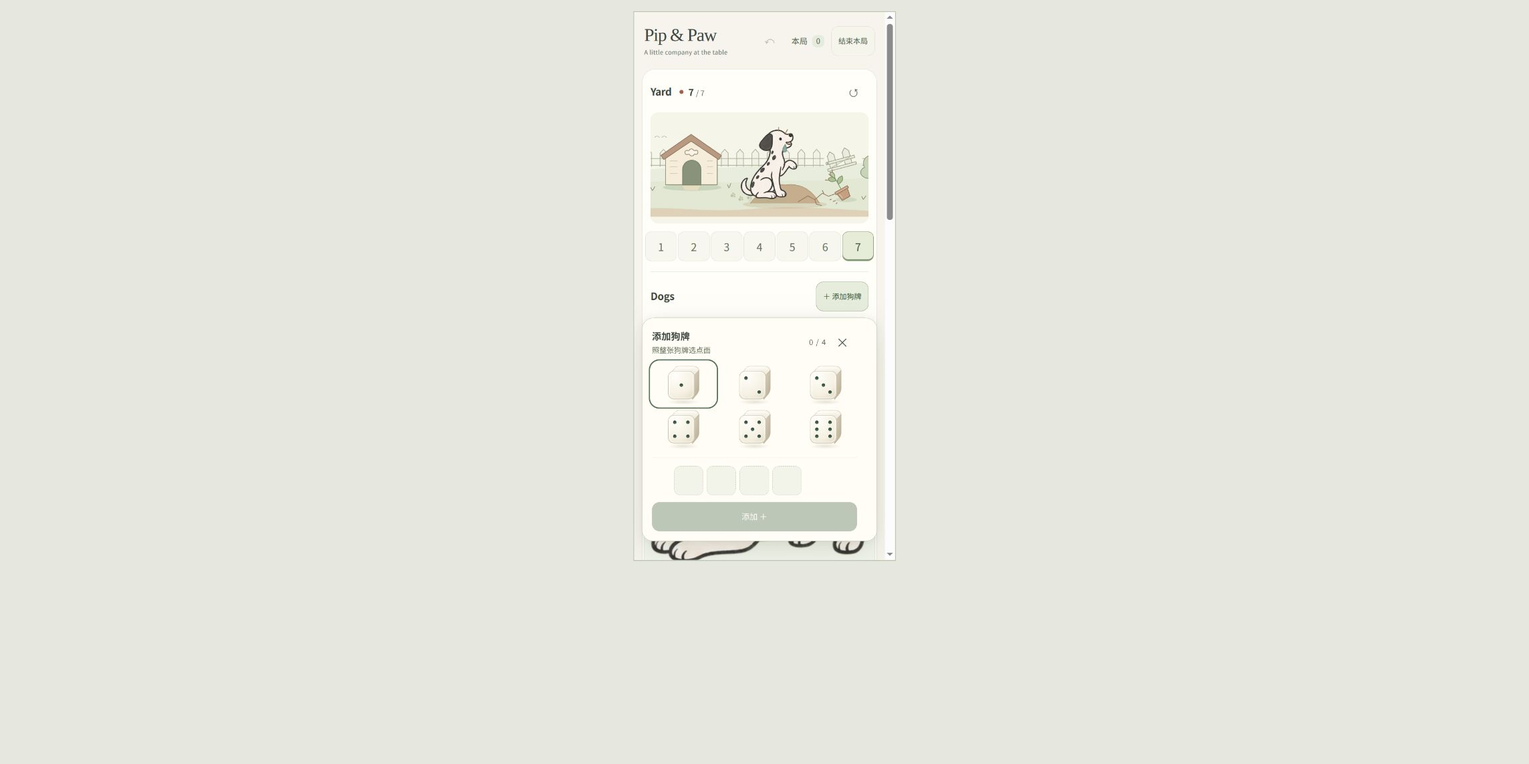
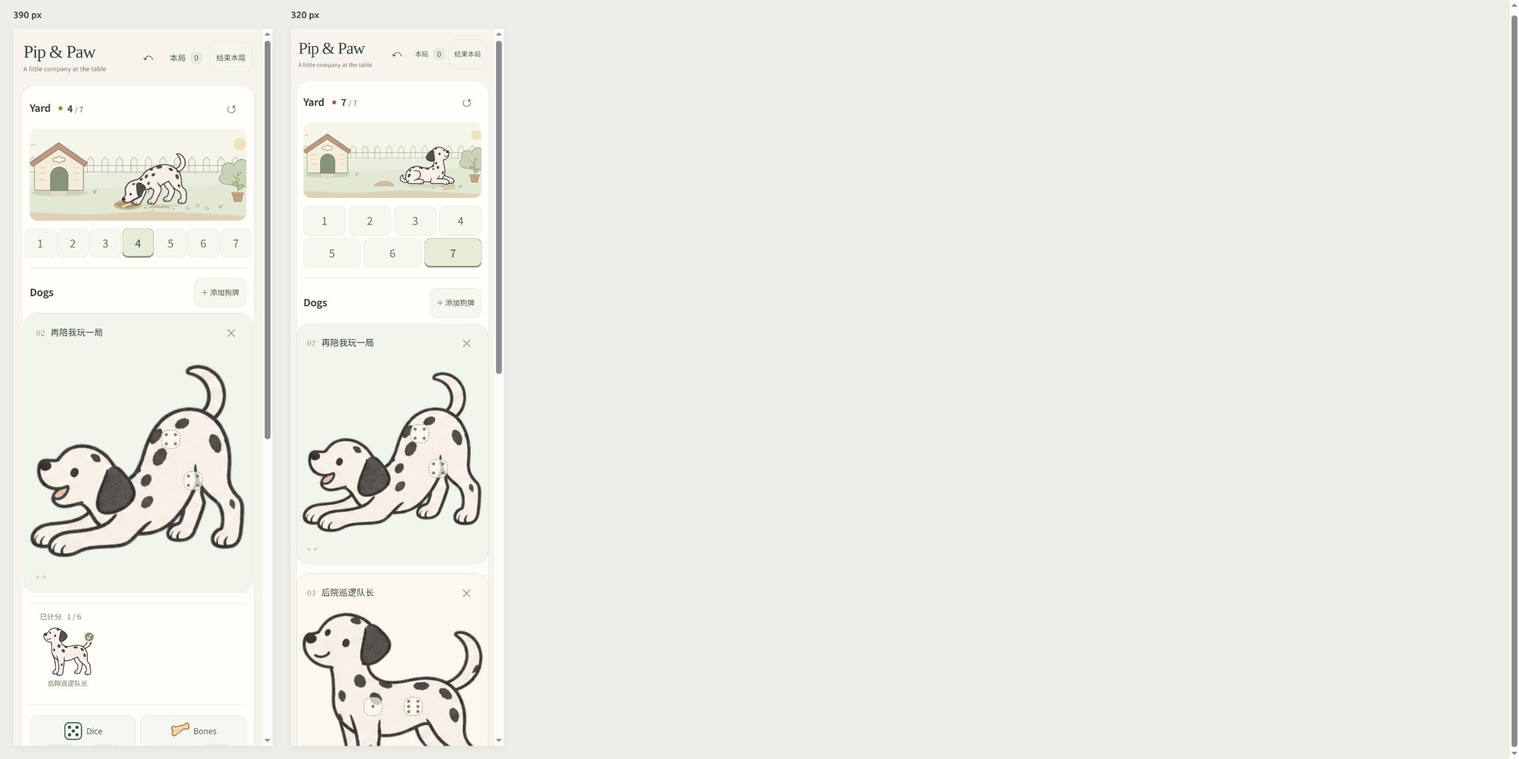
Fix dog creation and coordinate backyard scenes

diff --git a/index.html b/index.html
@@ -180,7 +180,7 @@ main{max-width:1040px;padding-top:30px}.brand strong{font-size:32px}.brand small
 .record-faces{display:flex;align-items:center;gap:2px;flex-wrap:wrap;margin-top:3px}.record-faces .die-art{width:29px;height:30px;flex:none}.record-faces small{padding-left:3px}
 
 /* A temporary tool beside the table: opening it never moves the cards. */
-.dog-builder{position:fixed;inset:auto;z-index:60;width:420px;max-width:calc(100vw - 24px);max-height:calc(100dvh - 24px);margin:0;padding:16px;border:1px solid #c9d3bd;border-radius:18px;background:#fffdf5;color:var(--ink);box-shadow:0 14px 45px #36492a24,0 3px 10px #36492a10;overflow:auto;overscroll-behavior:contain;scrollbar-gutter:stable;animation:builder-appear .16s ease-out}
+.dog-builder{position:fixed;inset:auto;z-index:60;width:420px;max-width:calc(100vw - 24px);max-height:calc(100dvh - 24px);margin:0;padding:16px;border:1px solid #c9d3bd;border-radius:18px;background:#fffdf5;color:var(--ink);box-shadow:0 14px 45px #36492a24,0 3px 10px #36492a10;overflow:auto;overscroll-behavior:contain;scrollbar-gutter:stable;transform-origin:top right;animation:builder-unfold .14s ease-out}
 .dog-builder::backdrop{background:transparent}
 .dog-builder .builder-heading h3{font-size:14px;letter-spacing:.02em}
 .dog-builder .builder-heading p{font-size:11px;color:#64705b;margin-top:3px}
@@ -206,7 +206,7 @@ main{max-width:1040px;padding-top:30px}.brand strong{font-size:32px}.brand small
 .scored-dog .new-puppy{width:78px;margin:auto}
 .scored-dog>span:last-of-type{max-width:84px;overflow-wrap:anywhere}
 .settle-dog-name>span:last-child{line-height:1.5;overflow-wrap:anywhere}
-@keyframes builder-appear{from{opacity:0;transform:translateY(4px)}to{opacity:1;transform:none}}
+@keyframes builder-unfold{from{opacity:0;clip-path:inset(0 0 0 18% round 18px)}to{opacity:1;clip-path:inset(0 0 0 0 round 18px)}}
 @media(max-width:650px){
  .dog-builder{padding:14px;border-radius:16px}
  .dog-builder .dice-palette{grid-template-columns:repeat(3,minmax(0,1fr));gap:2px 12px;margin:8px 0 12px}
@@ -225,19 +225,21 @@ main{max-width:1040px;padding-top:30px}.brand strong{font-size:32px}.brand small
 @media(prefers-reduced-motion:reduce){.dog-builder{animation:none}}
 
 
-/* The same Dalmatian belongs to the card and the backyard. */
-.yard-scene .yard-character{left:var(--yard-x);top:var(--yard-y);width:22.8%;max-width:none}
-.yard-scene .yard-dog{display:block;width:100%;height:100%}
-.yard-reaction{position:absolute;inset:0;width:100%;height:100%;overflow:visible;pointer-events:none}
-.yard-planter,.yard-gate{transform-box:fill-box;transform-origin:50% 100%}
-.yard-scene[data-level=caution] .yard-change .yard-planter,.yard-scene[data-level=full] .yard-change .yard-planter{animation:yard-pot-catch .46s ease-out both}
-.yard-scene[data-level=full] .yard-change .yard-gate{animation:yard-gate-catch .4s ease-out both}
-.yard-change .yard-tension{animation:yard-mark-arrive .25s ease-out both}
-@keyframes yard-pot-catch{0%,100%{transform:rotate(0)}35%{transform:rotate(-3deg)}70%{transform:rotate(1deg)}}
-@keyframes yard-gate-catch{0%,100%{transform:rotate(0)}40%{transform:rotate(-2deg)}}
-@keyframes yard-mark-arrive{from{opacity:0}to{opacity:1}}
-@media(max-width:650px){.yard-scene .yard-character{left:var(--yard-mobile-x);top:var(--yard-mobile-y);width:34%}}
-@media(prefers-reduced-motion:reduce){.yard-scene .yard-character,.yard-scene .yard-planter,.yard-scene .yard-gate,.yard-scene .yard-tension{animation:none}}
+/* One scene coordinate system keeps paws, soil and props together at every width. */
+.yard-scene .yard-story{position:absolute;inset:0;width:100%;height:100%;max-width:none;left:0;overflow:hidden}
+.yard-story .yard-dalmatian{overflow:hidden}
+.yard-working-paw{transform-box:fill-box;transform-origin:68.4211% 9.4118%;animation:yard-paw-scoop .72s ease-in-out 5}
+.yard-dirt-flight{opacity:0;animation:yard-soil-toss .72s ease-out 5;animation-delay:var(--crumb-delay,0s)}
+.yard-butterfly-wings{transform-box:fill-box;transform-origin:50% 50%;animation:yard-wings .65s ease-in-out 5}
+.yard-garden-sprig{transform-box:fill-box;transform-origin:50% 100%;animation:yard-sprig-breeze 1.5s ease-in-out 2}
+.yard-found-bone{animation:yard-bone-peek 2.15s ease-out both}
+@keyframes yard-paw-scoop{0%,100%{transform:rotate(0deg)}28%{transform:rotate(17deg)}66%{transform:rotate(-14deg)}85%{transform:rotate(-5deg)}}
+@keyframes yard-soil-toss{0%,24%{opacity:0;transform:translate(0,0)}35%{opacity:.95;transform:translate(7px,-5px)}65%{opacity:.85;transform:translate(33px,-19px)}95%,100%{opacity:0;transform:translate(54px,7px)}}
+@keyframes yard-wings{0%,100%{transform:scaleX(1)}50%{transform:scaleX(.55)}}
+@keyframes yard-sprig-breeze{0%,100%{transform:rotate(0)}40%{transform:rotate(3deg)}70%{transform:rotate(-1deg)}}
+@keyframes yard-bone-peek{0%,15%{opacity:0;transform:translateY(5px)}45%,100%{opacity:1;transform:translateY(0)}}
+@media(max-width:650px){.yard-scene{aspect-ratio:2.35}.yard-scene .yard-story{width:100%;height:100%;left:0}}
+@media(prefers-reduced-motion:reduce){.yard-story .yard-working-paw,.yard-story .yard-butterfly-wings,.yard-story .yard-garden-sprig,.yard-story .yard-found-bone{animation:none}.yard-story .yard-dirt-flight{animation:none;display:none}}
 
 </style></head><body><main><header><div class="brand"><strong>Pip &amp; Paw</strong><small>A little company at the table</small></div><nav class="session-tools" aria-label="本局操作"><button type="button" class="icon-button" id="undoButton" aria-label="撤销上一步" title="撤销上一步" disabled>↶</button><button type="button" class="quiet-button" id="openJournal">本局 <span id="journalCount">0</span></button><button type="button" class="secondary-button" id="endSession">结束本局</button></nav></header><div id="saveStatus" class="save-status" hidden>浏览器未允许保存；当前页面仍可继续使用。</div><div id="tableEnded" class="table-ended" hidden><span>这一局已收好。</span><button type="button" class="text-button" id="resumeTable">继续本局</button></div>
 <section class="general-module" id="generalModule" aria-label="Yard and Dogs">
@@ -430,8 +432,9 @@ function positionBuilder(){
  panel.style.width=Math.min(420,width-margin*2)+'px';
  panel.style.maxHeight=Math.max(44,height-margin*2)+'px';
  let box=panel.getBoundingClientRect(),left,top,side;
- if(width>=1100&&rightEdge-rect.right>=box.width+gap+margin){
-  side='right';left=rect.right+gap;top=rect.top;
+ // Keep the component attached to the entrance, opening toward the table.
+ if(rect.left-leftEdge>=box.width+gap+margin){
+  side='left';left=rect.left-gap-box.width;top=rect.top;
  }else{
   const below=bottomEdge-rect.bottom-gap-margin,above=rect.top-topEdge-gap-margin;
   side=below>=box.height||below>=above?'bottom':'top';
@@ -480,14 +483,15 @@ function setupBuilderPopover(){
  panel.addEventListener('toggle',event=>{
   if(event.newState==='closed'&&!panel.matches(':popover-open')){builderOpen=false;panel.hidden=true;updateBuilderExpanded(false);}
  });
- panel.addEventListener('keydown',event=>{if(event.key==='Escape'){event.preventDefault();event.stopPropagation();closeBuilder();}});
+ document.addEventListener('keydown',event=>{if(builderOpen&&event.key==='Escape'){event.preventDefault();event.stopPropagation();closeBuilder();}});
  document.addEventListener('pointerdown',event=>{
   if(!builderOpen||builderUsesNativePopover()||panel.contains(event.target)||builderInvokers().some(b=>b.contains(event.target)))return;
   closeBuilder(false);
  });
- panel.addEventListener('focusout',()=>queueMicrotask(()=>{
-  if(builderOpen&&!panel.contains(document.activeElement)&&!builderInvokers().includes(document.activeElement))closeBuilder(false);
- }));
+ // Focus changes are not dismissal: a pointer activation may briefly blur
+ // to body, and editing the draft replaces its focused chip before restoring it.
+ // Native auto popovers handle light dismissal; the fallback uses the explicit
+ // outside pointerdown handler above. Neither path interrupts an internal click.
  window.addEventListener('resize',requestBuilderPosition,{passive:true});
  window.addEventListener('scroll',event=>{if(!panel.contains(event.target))requestBuilderPosition();},{passive:true,capture:true});
  window.visualViewport?.addEventListener('resize',requestBuilderPosition,{passive:true});
@@ -1236,29 +1240,47 @@ function renderActionRule(){
  $('actionSettings').hidden=!$('specialExtra').querySelector('[data-p]');
 }
 let lastYard=null;
-// Scene details respond to the known Yard total, never to an invented dice roll.
+// Every object shares this scene's coordinates: the working paw meets the pit,
+// and the loose soil leaves that paw toward the dog's hind legs.
+function yardPoseSvg(state, points) {
+ const art=DOG_ART.poses[state.pose],crop=art.cropRect;
+ const ground=state.ground??237;
+ const feet=(art.objectBounds[3]-crop[1])/crop[3];
+ const top=ground-state.size*feet;
+ const source='<image href="assets/'+DOG_ART.asset+'" width="'+DOG_ART.width+'" height="'+DOG_ART.height+'"';
+ let body=source+'/>';
+ if(state.activity==='dig'){
+  const key='yard-dig-'+points;
+  // Pose 7's forward foreleg is under the ear. The shoulder is (1214,604),
+  // the resting paw is near (1183,660), in the original atlas coordinates.
+  // Keep the head/ear as a foreground layer so the moving leg stays behind it.
+  body='<defs><clipPath id="'+key+'-body"><path clip-rule="evenodd" d="M'+crop[0]+' '+crop[1]+'h'+crop[2]+'v'+crop[3]+'h-'+crop[2]+'Z M1201 598L1233 601Q1225 635 1208 663Q1195 677 1168 669Q1154 665 1161 649Q1186 633 1201 598Z"/></clipPath><clipPath id="'+key+'-head"><path d="M1101 540H1193L1231 586L1210 609L1198 637L1158 650V680H1101Z"/></clipPath></defs>'+
+   '<g transform="translate(1214 604)"><g class="yard-working-paw"><rect x="-65" y="-8" width="95" height="85" fill="#000" fill-opacity="0"/><path d="M-12-3C-16 13-25 31-40 40C-57 45-62 58-48 62C-37 67-22 64-18 57C-6 38 3 20 8 1" fill="#f8f1e7" stroke="#4c4a44" stroke-width="5.1" stroke-linecap="round" stroke-linejoin="round"/><path d="M-49 61q-2-6 3-10m8 13q-3-6 2-11" fill="none" stroke="#4c4a44" stroke-width="3" stroke-linecap="round"/></g></g>'+
+   source+' clip-path="url(#'+key+'-body)"/>'+source+' clip-path="url(#'+key+'-head)"/>';
+ }
+ const frame='yard-pose-frame-'+points;
+ return '<svg class="yard-dalmatian" x="'+state.x+'" y="'+top.toFixed(3)+'" width="'+state.size+'" height="'+state.size+'" viewBox="'+crop.join(' ')+'" overflow="hidden" aria-hidden="true"><defs><clipPath id="'+frame+'"><rect x="'+crop[0]+'" y="'+crop[1]+'" width="'+crop[2]+'" height="'+crop[3]+'"/></clipPath></defs><g clip-path="url(#'+frame+')">'+body+'</g></svg>';
+}
+function yardBone(x,y,angle=0,scale=1){
+ return '<g transform="translate('+x+' '+y+') rotate('+angle+') scale('+scale+')" fill="#ead7b5" stroke="#a58d69" stroke-width="1.8" stroke-linejoin="round"><path d="M-14-4C-24-12-29-3-22 2C-27 10-17 15-12 7H12C17 15 27 10 22 2C29-3 24-12 14-4Z"/></g>';
+}
 function yardLandscape(points){
- const state=yardStates[points];
- const gateAngle=[0,0,0,0,-3,-6,-10,-15][points];
- const potAngle=[0,0,-1,-3,-7,-12,-20,-29][points];
- const soilTop=[247,242,236,226,219,211,201,193][points];
- const soilWidth=[24,38,52,64,75,85,94,102][points];
- const soilTone=points>=6?'#c5ad8d':points>=4?'#ccba98':'#d6c7a9';
- const posts=Array.from({length:18},(_,i)=>28+i*45).filter(x=>x<560||x>660).map(x=>'<path d="M'+x+' 139V99l10-11 10 11v40"/>').join('');
- const paw=(x,y,angle)=>'<g transform="translate('+x+' '+y+') rotate('+angle+')" fill="#a8b18e" opacity=".65"><path d="M-4 3q0-6 4-6t4 6q-4 3-8 0Z"/><ellipse cx="-5" cy="-5" rx="2" ry="2.7"/><ellipse cx="0" cy="-7" rx="2" ry="2.7"/><ellipse cx="5" cy="-5" rx="2" ry="2.7"/></g>';
- const footprints=points>0?paw(285,224,65)+paw(308,235,53)+paw(333,230,65):'';
- const cracks=points<4?'':points===4?'<path d="M502 237l14-5 10 5"/>':points===5?'<path d="M493 239l19-9 16 7 12-9"/>':points===6?'<path d="M490 238l21-12 17 9 17-15 12 5M531 235l8 10"/>':'<path d="M479 242l28-17 21 11 22-19 18 9 22-8M528 236l4 13 15 4M555 220l-5-11"/>';
- const changed=lastYard!==null?' yard-change':'';
- return `<svg class="yard-landscape${changed}" viewBox="0 0 820 286" aria-hidden="true" focusable="false">
+ const state=yardStates[points],digging=state.activity==='dig';
+ const posts=Array.from({length:18},(_,i)=>'<path d="M'+(28+i*45)+' 139V99l10-11 10 11v40"/>').join('');
+ const paw=(x,y,angle)=>'<g transform="translate('+x+' '+y+') rotate('+angle+')" fill="#b2bba0" opacity=".7"><path d="M-4 3q0-6 4-6t4 6q-4 3-8 0Z"/><ellipse cx="-5" cy="-5" rx="2" ry="2.7"/><ellipse cx="0" cy="-7" rx="2" ry="2.7"/><ellipse cx="5" cy="-5" rx="2" ry="2.7"/></g>';
+ const footprints=points===0?'':paw(627,249,-70)+paw(597,240,-70)+paw(567,248,-70);
+ const pit=points<2?'':points===2?'<ellipse cx="378" cy="237" rx="34" ry="10" fill="#d9c9a7"/><path d="M349 237q27-11 56-1" fill="none" stroke="#b5a07f" stroke-width="1.6"/>':points===7?'<path d="M339 242q17-19 39-18q28-1 40 18" fill="#d1bf9e" stroke="#b19b79" stroke-width="1.7"/><path d="M356 238l11-4m12 3l8-3m12 5l6-2" fill="none" stroke="#bba786" stroke-width="1.5"/>':'<ellipse cx="378" cy="238" rx="43" ry="15" fill="#cfbc9b"/><ellipse cx="378" cy="237" rx="35" ry="10" fill="#ac9475"/><path d="M339 237q7-13 27-12m25 0q18 2 26 12" fill="none" stroke="#b49d79" stroke-width="3.2" stroke-linecap="round"/>';
+ const spoil=points>=3&&points<7?'<path d="M446 247q16-16 34-2q15-12 29 3" fill="#d4c09d" stroke="#b7a07d" stroke-width="1.6" stroke-linecap="round"/><g fill="#b09a79"><ellipse cx="433" cy="247" rx="3" ry="2"/><ellipse cx="521" cy="250" rx="2.5" ry="1.8"/><ellipse cx="457" cy="254" rx="2" ry="1.6"/></g>':'';
+ const bone=points===4?'<g class="yard-found-bone">'+yardBone(374,237,-24,.62)+'</g>':points===5?yardBone(369,245,-12,.8):points===6?yardBone(426,246,8,.8):points===7?yardBone(623,244,-7,.85):'';
+ const butterfly=points===1?[349,157]:points===2?[340,177]:points===5?[352,150]:points===6?[571,131]:null;
+ const flutter=butterfly?'<g class="yard-butterfly" transform="translate('+butterfly.join(' ')+')"><g class="yard-butterfly-wings" fill="#d6bd8e" stroke="#ac956e" stroke-width="1.2"><path d="M0 0C-18-20-22 7-3 5C-16 16 4 22 0 0Z"/><path d="M0 0C18-20 22 7 3 5C16 16-4 22 0 0Z"/><path d="M0-2v10" stroke="#897d60" fill="none"/></g></g>':'';
+ const dust=digging?'<g class="yard-soil-spray" fill="#ae9470" aria-hidden="true">'+[0,1,2].map((i)=>'<g transform="translate('+(405+i*3)+' '+(237-i)+')"><g class="yard-dirt-flight" style="--crumb-delay:'+(i*.08)+'s"><ellipse cx="0" cy="0" rx="'+(2.6-i*.35)+'" ry="'+(1.7+i*.15)+'"/></g></g>').join('')+'</g>':'';
+ const lip=points>=3&&points<7?'<path d="M338 240q39 18 80-1" fill="none" stroke="#c9b28e" stroke-width="4.5" stroke-linecap="round"/>':'';
+ return `<svg class="yard-landscape yard-story" viewBox="0 0 820 286" preserveAspectRatio="xMidYMid slice" aria-hidden="true" focusable="false">
+  <rect width="820" height="286" fill="#f5f5e9"/>
   <path d="M0 154C100 133 208 149 310 139S519 145 628 132S757 137 820 148V286H0Z" fill="#e9eddd"/>
-  <g fill="#f3f0e5" stroke="#a9b296" stroke-width="1.9" stroke-linejoin="round">${posts}</g>
-  <path d="M26 115H555M667 115H806M26 135H555M667 135H806" fill="none" stroke="#a9b296" stroke-width="2"/>
-  <g transform="rotate(${gateAngle} 609 139)"><g class="yard-gate" fill="#edeadf" stroke="#9ea88a" stroke-width="2" stroke-linejoin="round">
-   <path d="M574 141V98l10-11 10 11v43M619 141V98l10-11 10 11v43"/>
-   <path d="M565 115h86v7h-86ZM565 135h86v7h-86Z"/>
-   <path d="M576 134l62-17" fill="none" stroke="#b6bea4"/>
-   <circle cx="570" cy="119" r="2" fill="#7d8a6b" stroke="none"/>
-  </g></g>
+  <g fill="#f3f0e5" stroke="#b0b89f" stroke-width="1.8" stroke-linejoin="round">${posts}</g>
+  <path d="M26 115H806M26 135H806" fill="none" stroke="#b0b89f" stroke-width="2"/>
   <path d="M0 188C133 172 202 190 335 184S549 182 662 173S755 178 820 180V286H0Z" fill="#e2e8d4"/>
   <path d="M0 264C115 253 204 275 330 264S547 261 675 268S764 269 820 261V286H0Z" fill="#ded1b8"/>
   <ellipse cx="167" cy="200" rx="86" ry="10" fill="#cbd5bc"/>
@@ -1270,36 +1292,30 @@ function yardLandscape(points){
    <path d="M157 92q8-11 16 0q12-4 11 5q0 7-10 5q-8 11-16 0q-11 4-12-4q-1-9 11-6Z" fill="#f8f4e7" stroke="#a49070"/>
   </g>
   <path d="M138 194h54l-9 14h-38Z" fill="#e7dcc2"/>
-  <g stroke="#889675" stroke-width="2" stroke-linecap="round" fill="none"><path d="M50 209l-5-9m6 9l6-11M275 201l-4-9m5 9l5-13M724 221l-6-12m7 12l5-16M670 235l-4-8m5 8l7-10"/></g>
+  <g stroke="#889675" stroke-width="2" stroke-linecap="round" fill="none"><path d="M50 209l-5-9m6 9l6-11M275 201l-4-9m5 9l5-13M724 221l-6-12m7 12l5-16M665 247l-4-8m5 8l7-10"/></g>
   <g stroke="#8c9978" stroke-width="2" fill="#c9d3b7"><path d="M693 174c-37 0-36-27-19-33c-14-27 20-47 34-26c13-29 45-22 45 5c29-9 40 24 17 37c22 22-14 37-33 20Z"/><path d="M720 176v-42m0 25l-15-14m15 2l12-12" fill="none"/></g>
+  <g transform="translate(720 211)" stroke="#9c856d" stroke-width="1.8" stroke-linejoin="round">
+   <path d="M-16-9H16l-5 25h-22Z" fill="#c59f81"/><path d="M-18-12h36v6h-36Z" fill="#d6b391"/>
+   <g class="yard-garden-sprig" fill="#b5c49f" stroke="#82956d"><path d="M0-12V-49m0 19q-18-1-15-14q15-3 15 14m0 9q19-1 16-15q-16-2-16 15"/><circle cx="0" cy="-51" r="5" fill="#e8d19b"/></g>
+  </g>
   ${footprints}
-  <ellipse cx="440" cy="250" rx="${soilWidth+22}" ry="${points<4?8:12}" fill="${points>=6?'#b99d7d':'#c1bb9b'}" opacity=".26"/>
-  ${points===0?'':`<path d="M${440-soilWidth} 247Q${422-soilWidth*.35} ${soilTop-10} 440 ${soilTop}Q${475+soilWidth*.3} ${soilTop-10} ${440+soilWidth} 247" fill="${soilTone}" stroke="#ad9674" stroke-width="1.7" stroke-linecap="round"/>`}
-  <g fill="none" stroke="${points>=6?'#94785e':'#aa9474'}" stroke-width="2" stroke-linecap="round" stroke-linejoin="round">${cracks}</g>
-  <ellipse cx="${state.x*8.2}" cy="239" rx="${state.pose===10?78:62}" ry="8" fill="#a9b496" opacity=".24"/>
-  <ellipse cx="620" cy="236" rx="31" ry="7" fill="#b4b897" opacity=".35"/>
-  <g transform="rotate(${potAngle} 620 232)"><g class="yard-planter" stroke-linejoin="round" stroke-linecap="round">
-   <path d="M602 204h36l-5 28h-26Z" fill="#c59f81" stroke="#93765f" stroke-width="2.1"/>
-   <path d="M599 201h42v7h-42Z" fill="#d4b08f" stroke="#93765f" stroke-width="2.1"/>
-   <path d="M620 201v-49m0 20q-21-1-18-16q17-4 18 16m0 13q23-2 21-17q-21-2-21 17" fill="#adbf95" stroke="#7d926a" stroke-width="2"/>
-   <path d="M620 164q-11-13-4-22q13 5 4 22" fill="#bdcba4" stroke="#7d926a" stroke-width="2"/>
-   <path d="M608 212l3 13" stroke="#e3c9aa" stroke-width="2"/>
-  </g></g>
-  ${points>=5?'<path d="M588 239l-6 2m11 4l-2 3m-15-13l-4 1" fill="none" stroke="#a98a66" stroke-width="2.5" stroke-linecap="round"/>':''}
-  ${points>=6?'<g class="yard-tension" fill="none" stroke="#aa7556" stroke-width="2.2" stroke-linecap="round"><path d="M576 167l-7-6M568 179l-9-1M580 155l-2-8"/></g>':''}
+  <ellipse cx="${state.x+state.size*.52}" cy="240" rx="${state.shadow}" ry="6" fill="#afba9b" opacity=".28"/>
+  ${pit}${spoil}${bone}
+  ${points===0?'<g transform="translate(563 239) rotate(-13)"><circle r="10" fill="#d1b788" stroke="#a99572" stroke-width="1.7"/><path d="M-5-8q10 6 9 17" fill="none" stroke="#eee0bf" stroke-width="3"/></g>':''}
+  ${yardPoseSvg(state,points)}${lip}${dust}${flutter}
   <path d="M57 53q7-8 14 0m7 0q7-8 14 0" fill="none" stroke="#b4bcaa" stroke-width="1.7" stroke-linecap="round"/>
-  <circle cx="744" cy="49" r="19" fill="#efe3bc"/>
+  <circle cx="726" cy="49" r="19" fill="#efe3bc"/>
  </svg>`;
 }
 const yardStates=[
- {pose:10,x:48,name:'斑点狗在狗屋前打盹，花盆稳稳站着'},
- {pose:11,x:49,name:'斑点狗沿着爪印巡游后院'},
- {pose:7,x:51,name:'斑点狗低头闻着新翻的土'},
- {pose:3,x:50,name:'斑点狗俯身邀玩，土堆渐渐隆起'},
- {pose:5,x:49,name:'斑点狗回头张望，花盆开始歪斜'},
- {pose:0,x:50,name:'斑点狗停下脚步，围栏和花盆都歪了些'},
- {pose:6,x:49,name:'斑点狗抬起一只爪，松动的围栏旁花盆摇摇欲坠'},
- {pose:8,x:48,name:'斑点狗举爪屏息，花盆悬斜着，还没有倒下'}
+ {pose:10,x:307,size:194,ground:237,shadow:84,activity:'rest',name:'斑点狗在狗屋旁打盹，小球安静地躺在草地上'},
+ {pose:11,x:372,size:205,ground:237,shadow:76,activity:'walk',name:'斑点狗沿着爪印巡游，一只蝴蝶停在前面'},
+ {pose:7,x:354,size:214,ground:237,shadow:78,activity:'sniff',name:'斑点狗低头闻着一块松软的泥土'},
+ {pose:7,x:354,size:214,ground:237,shadow:78,activity:'dig',name:'斑点狗站在浅坑右侧，前爪向后刨土，土粒落到身后'},
+ {pose:7,x:354,size:214,ground:237,shadow:78,activity:'dig',name:'斑点狗又刨了几下，浅坑里露出一截骨头'},
+ {pose:3,x:385,size:205,ground:237,shadow:81,activity:'play',name:'斑点狗向新找到的骨头俯身邀玩，蝴蝶在旁边飞'},
+ {pose:5,x:445,size:175,ground:237,shadow:62,activity:'look',name:'斑点狗回过头，看着从耳边飞过的蝴蝶'},
+ {pose:2,x:432,size:218,ground:237,shadow:86,activity:'rest',name:'斑点狗把浅坑填好，趴在旁边守着骨头休息'}
 ];
 function renderYardScene(){
  if(lastYard===yard)return;
@@ -1309,16 +1325,11 @@ function renderYardScene(){
  status.setAttribute('aria-label','庭院总点数 '+yard+'，上限 7');
  $('yardTotal').textContent=yard;
  $('yardMeter').innerHTML=Array.from({length:7},(_,i)=>'<span class="'+(i<yard?'is-filled':'')+'"></span>').join('');
- scene.dataset.points=yard;scene.dataset.level=level;
+ scene.dataset.points=yard;scene.dataset.level=level;scene.dataset.activity=state.activity;
  scene.setAttribute('aria-label','后院 '+yard+' 点，'+state.name);
- const art=DOG_ART.poses[state.pose];
- const feet=(art.objectBounds[3]-art.cropRect[1])/art.cropRect[3];
- const top=82.5-65.4*feet,mobileTop=78.3-66.3*feet;
- const reaction=yard===7?'<svg class="yard-reaction" viewBox="0 0 100 100" aria-hidden="true"><path d="M72 23q-6 8-2 10q6 2 2-10Z" fill="#8baba3" stroke="#647f76" stroke-width=".75"/><path d="M72 8l3-5m-12 2V0" fill="none" stroke="#a67d5b" stroke-width="1.1" stroke-linecap="round"/></svg>':'';
- scene.innerHTML=yardLandscape(yard)+'<div class="yard-character" style="--yard-x:'+state.x+'%;--yard-mobile-x:'+(state.x*1.28-7)+'%;--yard-y:'+top.toFixed(2)+'%;--yard-mobile-y:'+mobileTop.toFixed(2)+'%">'+dogSprite(state.pose,'yard-dog')+reaction+'</div>';
+ scene.innerHTML=yardLandscape(yard);
  lastYard=yard;
 }
-
 
 function recalc(){
  renderYardScene();

diff --git a/QA_REPORT.md b/QA_REPORT.md
@@ -1,58 +1,83 @@
-# Pip & Paw QA · 1.0.0-rc.11
+# Pip & Paw QA · 1.0.0-rc.12
 
 Date: **2026-11-27**.
 
-This release changes the dog builder, character names, and Yard presentation. **Eight package, dependency, and JavaScript checks passed.** Connected Chrome checks covered opening and dismissing the palette, preserving its draft, adding dogs, keyboard focus, Yard states, and narrow layouts.
+This release repairs interrupted dog creation, moves the palette to the left of its entrance, and coordinates the dog and props in the Yard. Connected Chrome checks exercised consecutive die selections through creation, repeated faces, draft editing, keyboard activation, and the second Add dog entrance.
 
 ## Candidate
 
 | File | Bytes | SHA-256 |
 |---|---:|---|
[4 lines of base64/hex data omitted]
 
-Both model files are byte-for-byte unchanged from rc.10. The offline runtime remains `index.html` plus those two scripts, `assets/dalmatian-poses.webp`, and `assets/puppy-actions.webp`.
+Both model files, the probability core, and both illustration atlases are unchanged from rc.11. The offline runtime remains `index.html`, those two scripts, `assets/dalmatian-poses.webp`, and `assets/puppy-actions.webp`.
+
+## Dog-creation regression
+
+The reported failure was reproduced in rc.11: from a two-dog board, opening the palette and selecting 1 displayed **1 / 4**, but the palette closed before the next selection of 2 could complete. The board still contained two dogs. The earlier rc.11 checks therefore did not establish reliable consecutive selection in this interaction path.
+
+The repair removes dismissal triggered by a transient loss of focus inside the component. Native Popover light dismissal, the fallback's outside-pointer handler, Escape, and explicit close remain the closing paths.
+
+The rc.12 candidate completed these connected-Chrome interactions:
+
+- **Consecutive selections and editing:** chose **1 → 2 → 2 → 6**, removed 6, and chose 4. Closing and reopening retained **[1,2,2,4]**. Confirmation created one dog with four separate empty spaces.
+- **Keyboard creation:** selected a single 5 and pressed Enter to create its one-space dog.
+- **Dismissal:** Escape and an outside click closed the palette; reopening retained the selected draft faces.
+- **Second entrance:** with one scored dog and no unscored dogs, the empty-state Add dog entrance accepted **4 → 4** and created a two-space dog. The scored dog remained in the gallery.
+- **Narrow-screen creation:** at 320 px, selecting **1 → 6** and confirming created a dog with two separate empty spaces.
+
+These checks used an isolated QA origin. The public site's current game was preserved.
+
+## Layout
+
+The desktop palette measured **420 × 217 px** and opened on the **left** of its entrance.
+
+| Chrome iframe | Content width | Horizontal overflow | Palette |
+|---|---:|---|---|
+| 390 × 1080 px | 375 px | None | 351 × 333.8 px at x = 12, y = 429; below the entrance. |
+| 320 × 1080 px | 305 px | None | 281 × 333.8 px at x = 12, y = 444; below the entrance. |
+
+The Yard, general module, and controls retained the same measured bounds before and after opening. These narrow-layout measurements used Chrome iframes. The captured narrow-screen console error list was empty.
+
+## Yard
+
+The eight scenes use the existing Dalmatian atlas within the same SVG coordinate system as the landscape and props. Their activities are:
+
+| Yard total | Activity |
+|---:|---|
+| 0 | Napping |
+| 1 | Exploring |
+| 2 | Sniffing the soil |
+| 3 | Digging |
+| 4 | Discovering a bone |
+| 5 | Inviting play |
+| 6 | Looking back |
+| 7 | Resting beside the bone |
+
+The Yard still represents the entered total; seven remains valid. The scenes no longer use progressively collapsing fences or flowerpots to represent that total.
+
+Rendered checks covered all eight scenes and two digging-paw phases in Inkscape, plus scene 4 in desktop and 390 px Chrome and scene 7 at 320 px. In Chrome, switching to scene 4 changed the paw rotation, moved the loose soil outward while its opacity rose from 0 to above 0.85, and revealed the bone from opacity 0 to 1.
+
+## Fallback and reduced motion
+
+Escape handling now stays available while the builder is open, including after keyboard focus moves outside it.
+
+A separate same-origin QA copy disabled the native Popover path and attributes. Selecting **1 → 2** succeeded. Pressing Tab from the create button moved focus to an outside dog-removal button while the palette remained open; Escape then closed it. Reopening restored **2 / 4**, and confirmation created **举爪申请加餐** with two empty spaces. Reloading the final native-Popover candidate, selecting 6, and pressing Escape also closed the palette.
+
+The QA copy forced the reduced-motion CSS branches on. Chrome reported **no paw animation**, **hidden dust**, and **bone opacity 1**. Its console error list was empty. This checks the fallback and CSS branches in Chrome; it does not use an operating-system preference change or a physical iOS device.
 
 ## Automated checks
 
-`python3 tests/test_release.py`: **8 passed** in the candidate directory and **8 passed** after extracting the offline ZIP into a separate directory. These checks cover page structure, current-game storage scope, local dependencies, release files, and JavaScript syntax.
+`python3 tests/test_release.py`: **8 passed** in the final candidate directory after the Escape-handler change, and **8 passed** after extracting the 22-file offline ZIP into a separate temporary directory. These checks cover page structure, current-game storage scope, local dependencies, release files, and JavaScript syntax.
 
-The game-model, settlement-model, and scripted browser regression suites were not rerun for rc.11. The 48-check rc.10 result remains in that version's QA report in repository history.
-
-## Connected Chrome: builder and focus
-
-- **Open and close.** The palette opens in the browser's top layer. Clicking Add dog again closes it. Escape closes it and restores focus to the entrance. Clicking Yard 6 outside the palette closes it and leaves focus on Yard 6.
-- **Keep the draft.** Two selected die faces remained selected after closing and reopening the palette.
-- **Create the card.** Adding `[4,4]` created **再陪我玩一局**; adding `[1,1]` created **饼干失踪嫌疑狗**. Focus moved to the new dog's first empty space.
-- **Edit a full draft.** After choosing the fourth face, focus moved to the palette's Add dog button. Removing the fourth and third selected dice left the remaining controls operable.
-- **Inspect settlement.** The longer character names fit the 288 px wide settlement dialog. That inspection ended with Cancel and added no result record.
-
-## Layout measurements
-
-| Chrome iframe | Content width | Horizontal overflow | Builder |
-|---|---:|---|---|
-| 390 × 820 px | 375 px | None | Yard, Dogs, outcomes, and Action retained the same bounds before and after opening. |
-| 320 × 820 px | 305 px | None | Palette measured 281 × 333.8 px at x = 12, y = 472, within the viewport. |
-
-At 320 px, the six die choices measured approximately **71 × 64 px**; dog-space targets remained **44 × 44 px**. Narrow-layout checks used Chrome iframes; physical iOS devices were not tested.
-
-## Yard and artwork
-
-Desktop Chrome checks covered totals **0, 4, 6, and 7**. The Yard uses the existing Dalmatian atlas, with each pose positioned by its crop's foot location. The higher totals show disturbed soil, leaning fence boards, and a tilted flowerpot. At seven the pot has not fallen, and the total remains valid.
-
-All eight scene constructions passed JavaScript and SVG syntax checks. Both illustration atlases and the dog-card slot geometry are unchanged from rc.10.
-
-## Reduced motion and fallback
-
-A separate same-origin QA copy forced the reduced-motion media rules on. Chrome reported `animation: none` for the palette and Yard character, and `scroll-behavior: auto` for the page. This exercised the CSS branches without changing the operating system's preference or the release HTML.
-
-The same QA copy disabled the native Popover path and its attributes. The fallback opened, accepted a 2-point die, closed with Escape, and restored that die on reopening. Adding it created **伸个懒腰再说** and focused its first space. Undo returned to two dogs with the palette closed.
-
-Captured console errors came from the Zotero extension; no site JavaScript error was observed in the interactions listed above.
+The game-model, settlement-model, and scripted browser regression suites were not rerun for rc.12. Their earlier results remain in the corresponding reports in repository history.
 
 ## Screenshots
 
-[Desktop](assets/preview-desktop.jpg) · [Mobile-width Chrome frame](assets/mobile.jpg) · [Game report, rc.10](assets/game-report.jpg)
+[Desktop: left-opening palette and scene 4](assets/preview-desktop.jpg) · [Narrow Chrome frames: scenes 4 and 7](assets/mobile.jpg) · [Game report, rc.10](assets/game-report.jpg)
 
-The game-report screenshot is retained from rc.10. Earlier release changes are listed in [CHANGELOG.md](CHANGELOG.md).
+The desktop and narrow-layout images show rc.12. The game-report screenshot remains from rc.10.
+
+Earlier version reports remain in repository history. Release changes are listed in [CHANGELOG.md](CHANGELOG.md).

diff --git a/README.md b/README.md
@@ -1,15 +1,15 @@
 # Pip & Paw · A Spots companion
 
-**1.0.0-rc.11**
+**1.0.0-rc.12**
 
-**[Open the app](https://bibobrain.github.io/spots-table-companion/)** · **[Download the offline ZIP](https://github.com/bibobrain/spots-table-companion/releases/download/v1.0.0-rc.11/PipAndPaw_1.0.0-rc11.zip)**
+**[Open the app](https://bibobrain.github.io/spots-table-companion/)** · **[Download the offline ZIP](https://github.com/bibobrain/spots-table-companion/releases/download/v1.0.0-rc.12/PipAndPaw_1.0.0-rc12.zip)**
 
 A free, unofficial tabletop companion for CMYK’s **Spots**. Build your dog cards, compare the next roll, and keep a record of the game you are playing. English section names, bilingual Action names, Chinese explanations, and original Dalmatian illustrations. No account or installation.
 
 ## At the table
 
-1. **Build your dogs.** Open **添加狗牌** for a compact floating palette beside the button. Choose 1–4 die faces, then add a dog. Repeated faces are separate spaces: choosing 4 twice creates two 4-point spaces. Closing the palette keeps your selection for the next opening, and the table stays in place. Keep up to six dog cards in the game, including scored cards.
-2. **Match the table.** Tap a space on a dog to mark it filled or empty. This corrects the displayed board without recording a roll. Set **Yard** to the total buried points, and set **Dice** and **Bones**. The small status beside the Yard heading follows the total. Across 0–7, the Dalmatian's pose, loose soil, fence, and leaning flowerpot give the backyard its mood; seven points is still safe.
+1. **Build your dogs.** Open **添加狗牌** for a compact palette that unfolds to the left of the button when space permits. Choose 1–4 die faces, then confirm to create a dog. Repeated faces are separate spaces: choosing 4 twice creates two 4-point spaces. Closing the palette keeps your selection for the next opening, and the table stays in place. Keep up to six dog cards in the game, including scored cards.
+2. **Match the table.** Tap a space on a dog to mark it filled or empty. This corrects the displayed board without recording a roll. Set **Yard** to the total buried points, and set **Dice** and **Bones**. The small status beside the Yard heading follows the total. Across 0–7, the Dalmatian naps, explores, sniffs, digs, discovers a bone, and plays. Seven points remains a valid total.
 3. **Choose a plan.** **Roll** calculates an ordinary roll. In **Action**, choose **Fixed / Adjust / Filter / Chain / Bones**, then a card. Adjust its sliders or segmented choices beside the short calculation note. Both panels use your board; changing an Action setting leaves the ordinary Roll plan unchanged.
 4. **Record the result.** After rolling at the table, click the observed outcome in Roll or Action before changing the displayed board: 0, 1–4, or 5+ safe fills, or **BUST**. The app freezes that plan and its outcome probability. Confirm the actual spaces filled, the resulting Yard total, and any bones spent. Some Actions instead record a bone change or a point where a new dog card is needed.
 5. **Settle a bust.** Click **BUST**, then confirm. The result is recorded and the Yard and unscored dogs' placed dice are cleared. Your dog templates and scored cards remain ready for the next play.
@@ -18,7 +18,7 @@ A free, unofficial tabletop companion for CMYK’s **Spots**. Build your dog car
 
 ## 中文使用说明
 
-点「添加狗牌」，在按钮旁的小浮窗里选 1–4 颗骰面，再添加狗牌。关掉浮窗后，已选骰面会留到下次打开，牌桌保持原位。同一点数可以重复选择，每一颗都对应一个独立空位，一局最多保留六张狗牌。十二种斑点狗姿态各有名字：后院巡逻队长、饼干失踪嫌疑狗、骰响也不醒……后院也会随 0–7 点变换动作，花盆和围栏渐渐歪斜，7 点仍未爆掉。
+点「添加狗牌」，在向左展开的小组件里选 1–4 颗骰面，再确认生成狗牌；窄屏会贴着按钮调整位置。关掉后，已选骰面会留到下次打开，牌桌保持原位。同一点数可以重复选择，每一颗都对应一个独立空位，一局最多保留六张狗牌。十二种斑点狗姿态各有名字：后院巡逻队长、饼干失踪嫌疑狗、骰响也不醒……后院随 0–7 点展示打盹、巡游、闻土、刨坑、发现骨头和玩耍，7 点仍未爆掉。
 
 直接点狗身上的空位用于校正实体桌面。实际掷完后，先点 Roll 或 Action 中对应的结果，再确认填入的位置、后院总点数和消耗的骨头。确认 BUST 会记录本次结果，并清空后院与未计分狗牌上的骰子，保留狗牌和已计分的狗。误操作可撤销。点「结束本局」查看整局战绩与一个称号；称号取自本局有有效正概率的结算中最少见的一次。浏览器只保存当前这一局，开始新局会替换它。
 

diff --git a/CHANGELOG.md b/CHANGELOG.md
@@ -1,5 +1,11 @@
 # Changelog
 
+## 1.0.0-rc.12 — 2026-11-27
+
+- **Reliable dog creation:** fixed the palette closing during internal focus changes after a die selection. Consecutive selections, repeated faces, draft edits, and the final create action now remain in the same open component. Closing and reopening still keeps the draft. Escape also closes it after Tab moves focus outside.
+- **A left-opening palette:** the component unfolds to the left of Add dog when there is room, with viewport-aware placement on narrower screens. The main table stays in place until a new card is created.
+- **A playful backyard:** the eight Yard scenes now follow napping, exploring, sniffing, digging, finding a bone, playing, looking back, and resting beside the bone. The paws, pit, loose soil, and bone now line up with the dog's activity. The existing Dalmatian artwork, dog names, and probability models remain in use.
+
 ## 1.0.0-rc.11 — 2026-11-27
 
 - **A floating dog builder:** Add dog opens a compact palette beside its button without moving the table. Close it with the button, Escape, or an outside click; reopening restores the selected faces. The existing illustrated dice remain, and adding a dog moves keyboard focus to its first space.
